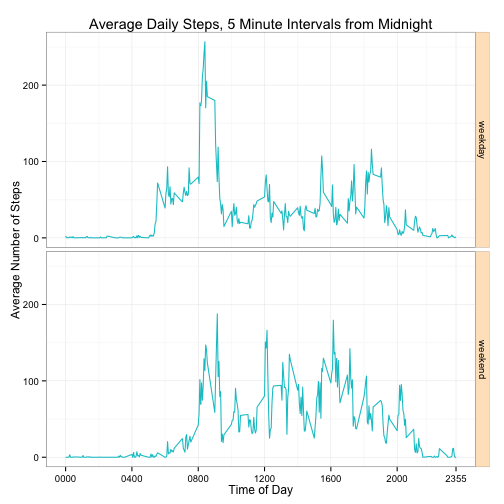
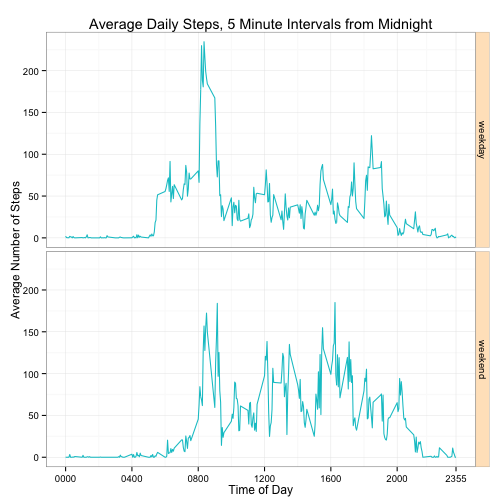
Fourth commit

diff --git a/Project1Dplyr.md b/Project1Dplyr.md
@@ -1,6 +1,4 @@
----
-output: html_document
----
+
 # Reproducible Research: Peer Assessment 1
 The data for this assignment was collected by a personal activity monitoring device.  The data consists of observations of an anonymous individual collected during the
 months of October and November, 2012.  It shows the number of steps taken at 5 minute intervals of the diurnal cycles during the two months.  For some days no data was recorded; that is shown by NAs in the data table.  
@@ -142,7 +140,7 @@ paste("The number of missing values is ",numMissingValues,sep="")
 
 ```r
 # Replace the NA values in the steps variable with sampled values
-set.seed(431)
+set.seed(80677)
 weekendNA<-unique(actDT[,.(steps,date,daytype)][is.na(steps)][daytype=="weekend"][[2]])
 weekdayNA<-unique(actDT[,.(steps,date,daytype)][is.na(steps)][daytype=="weekday"][[2]])
 for(i in seq_along(weekendNA)){
@@ -163,7 +161,7 @@ print(threePlot)
 
 ![plot of chunk unnamed-chunk-4](figure/unnamed-chunk-4-1.png) 
 
-Both the mean and the median with imputed values show an decrease from those without the imputed values.
+The mean with imputed values shows an decrease from those without the imputed values, while the median is unchanged.
 
 
 ```r
@@ -172,7 +170,7 @@ paste("The mean with imputed values is",round(mean(actDT[,sum(steps),by=date][[2
 ```
 
 ```
-## [1] "The mean with imputed values is 10705.7"
+## [1] "The mean with imputed values is 10714.52"
 ```
 
 ```r
@@ -180,7 +178,7 @@ paste("The median with imputed values is",median(actDT[,sum(steps),by=date][[2]]
 ```
 
 ```
-## [1] "The median with imputed values is 10600"
+## [1] "The median with imputed values is 10765"
 ```
 
 ## Are there differences in activity patterns between weekdays and weekends?
